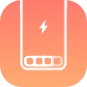
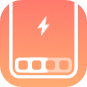
Almost done
- New header cell
- Better Icon

Changed region(s): [[0.092, 0.0, 0.8966, 0.9195], [0.4138, 0.1839, 0.5747, 0.4138]]

diff --git a/cenamoprefs/CENRootListController.m b/cenamoprefs/CENRootListController.m
@@ -134,14 +134,12 @@ void xdockCheck() {
 
 -(void)whatsThat:(id)sender {
 	[[UIApplication sharedApplication]openURL:[NSURL URLWithString:@"https://www.youtube.com/watch?v=dQw4w9WgXcQ"]];
+
+	// hehe ;)
 }
 
 -(void)openTwitterThomz:(id)sender {
 	[[UIApplication sharedApplication]openURL:[NSURL URLWithString:@"https://twitter.com/Thomzi07"]];
-}
-
--(void)openTwitterDave:(id)sender {
-	[[UIApplication sharedApplication]openURL:[NSURL URLWithString:@"https://twitter.com/DaveWijk"]];
 }
 
 -(void)openDepiction:(id)sender {
@@ -154,42 +152,39 @@ void xdockCheck() {
 
 @end
 
-@implementation CenamoHeaderCell // This cell has been made By Dave (https://twitter.com/DaveWijk). I've been dumb enough to use it a while ago on a now deleted project and i continued to use it for my next projects when i should not have done that.
-// Please don't be like me and when you take lines of code from someone, credit him.
+@implementation CenamoHeaderCell 
+// I originaly stole a cell from Dave so i'll just link his twitter here : https://twitter.com/DaveWijk
 
 - (instancetype)initWithStyle:(UITableViewCellStyle)style reuseIdentifier:(id)reuseIdentifier specifier:(id)specifier {
 	self = [super initWithStyle:style reuseIdentifier:reuseIdentifier specifier:specifier];
 
 	if (self) {
     
-    packageNameLabel = [[UILabel alloc] initWithFrame:CGRectMake(0,70,self.contentView.bounds.size.width+30,50)];
-	[packageNameLabel setTextAlignment:NSTextAlignmentRight];
-    [packageNameLabel setFont:[UIFont systemFontOfSize:50 weight: UIFontWeightSemibold] ];
-    packageNameLabel.textColor = [UIColor whiteColor];
-    packageNameLabel.text = @"Cenamo";
+    UILabel *tweakLabel = [[UILabel alloc] initWithFrame:CGRectMake(20,30,self.contentView.bounds.size.width+30,50)];
+	[tweakLabel setTextAlignment:NSTextAlignmentLeft];
+    [tweakLabel setFont:[UIFont systemFontOfSize:50 weight: UIFontWeightRegular]];
+    tweakLabel.text = @"Cenamo";
     
-    developerLabel = [[UILabel alloc] initWithFrame:CGRectMake(0,30,self.contentView.bounds.size.width+30,50)];
-	[developerLabel setTextAlignment:NSTextAlignmentRight];
-    [developerLabel setFont:[UIFont systemFontOfSize:22.5 weight: UIFontWeightMedium] ];
-    developerLabel.textColor = [UIColor colorWithRed:1 green:1 blue:1 alpha:0.85];
-	developerLabel.alpha = 0.8;
-    developerLabel.text = @"Thomz";
-    
-    
-    versionLabel = [[UILabel alloc] initWithFrame:CGRectMake(0,110,self.contentView.bounds.size.width+30,50)];
-	[versionLabel setTextAlignment:NSTextAlignmentRight];
-    [versionLabel setFont:[UIFont systemFontOfSize:22 weight: UIFontWeightMedium] ];
-    versionLabel.textColor = [UIColor colorWithRed:1 green:1 blue:1 alpha:0.8];
-	versionLabel.alpha = 0.8;
-    versionLabel.text = @"eta s0n";
+    UILabel *devLabel = [[UILabel alloc] initWithFrame:CGRectMake(25,70,self.contentView.bounds.size.width+30,50)];
+	[devLabel setTextAlignment:NSTextAlignmentLeft];
+    [devLabel setFont:[UIFont systemFontOfSize:22 weight: UIFontWeightMedium] ];
+	devLabel.alpha = 0.8;
+    devLabel.text = @"by Thomz";
+
+	NSBundle *bundle = [[NSBundle alloc]initWithPath:@"/Library/PreferenceBundles/cenamoprefs.bundle"];
+	UIImage *logo = [UIImage imageWithContentsOfFile:[bundle pathForResource:@"iconFullSize" ofType:@"png"]];
+	UIImageView *icon = [[UIImageView alloc]initWithImage:logo];
+	icon.frame = CGRectMake(self.contentView.bounds.size.width-35,35,70,70);
+	icon.layer.masksToBounds = YES;
+	icon.layer.cornerRadius = 15;
 
 	UITapGestureRecognizer *fiveTap = [[UITapGestureRecognizer alloc] initWithTarget:self action:@selector(secretSetting:)];
 	fiveTap.delegate = (id<UIGestureRecognizerDelegate>)self;
 	fiveTap.numberOfTapsRequired = 5;
     
-    [self addSubview:packageNameLabel];
-    [self addSubview:developerLabel];
-    [self addSubview:versionLabel];
+    [self addSubview:tweakLabel];
+    [self addSubview:devLabel];
+	[self addSubview:icon];
 	[self addGestureRecognizer:fiveTap];
 
     }
@@ -221,33 +216,7 @@ void xdockCheck() {
 }
 
 - (CGFloat)preferredHeightForWidth:(CGFloat)arg1{
-    return 200.0f;
-}
-
-
--(void)layoutSubviews{
-	[super layoutSubviews];
-
-    bgView = [[UIView alloc] initWithFrame:CGRectMake(0, 0, self.contentView.bounds.size.width, 200)];
-
-    UIColor *color1 = [UIColor colorWithRed: 0.99 green: 0.45 blue: 0.42 alpha: 1.00];
-    UIColor *color2 = [UIColor colorWithRed: 1.00 green: 0.56 blue: 0.41 alpha: 1.00];
-
-    CAGradientLayer *theViewGradient = [CAGradientLayer layer];
-    theViewGradient.colors = [NSArray arrayWithObjects: (id)color1.CGColor, (id)color2.CGColor, nil];
-    theViewGradient.startPoint = CGPointMake(0.5, 0.0);
-    theViewGradient.endPoint = CGPointMake(0.5, 1.0);
-    theViewGradient.frame = bgView.bounds;
-
-    //Add gradient to view
-    [bgView.layer insertSublayer:theViewGradient atIndex:0];
-    [self insertSubview:bgView atIndex:0];
-
-}
-
-
-- (CGFloat)preferredHeightForWidth:(CGFloat)width inTableView:(id)tableView {
-	return [self preferredHeightForWidth:width];
+    return 140.0f;
 }
 
 @end

diff --git a/cenamoprefs/CENRootListController.h b/cenamoprefs/CENRootListController.h
@@ -22,12 +22,7 @@
 - (id)initWithSpecifier:(id)arg1;
 @end
 
-@interface CenamoHeaderCell : PSTableCell <PreferencesTableCustomView> {
-    UIView *bgView;
-    UILabel *packageNameLabel;
-    UILabel *developerLabel;
-    UILabel *versionLabel;
-}
+@interface CenamoHeaderCell : PSTableCell 
 @end
 
 @interface KRLabeledSliderCell : PSSliderTableCell
